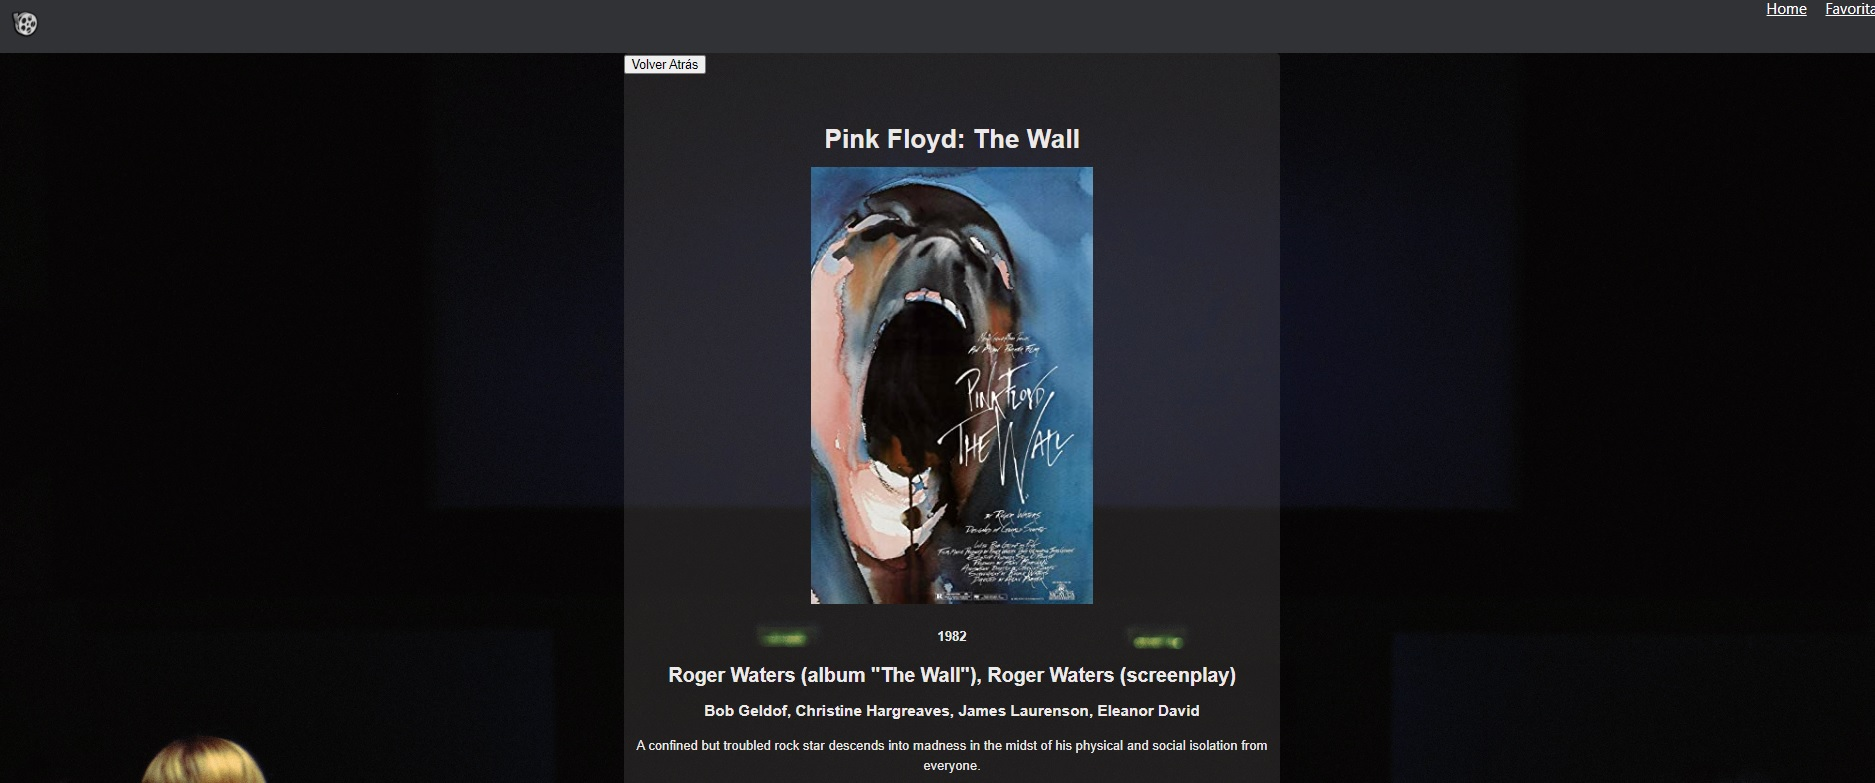
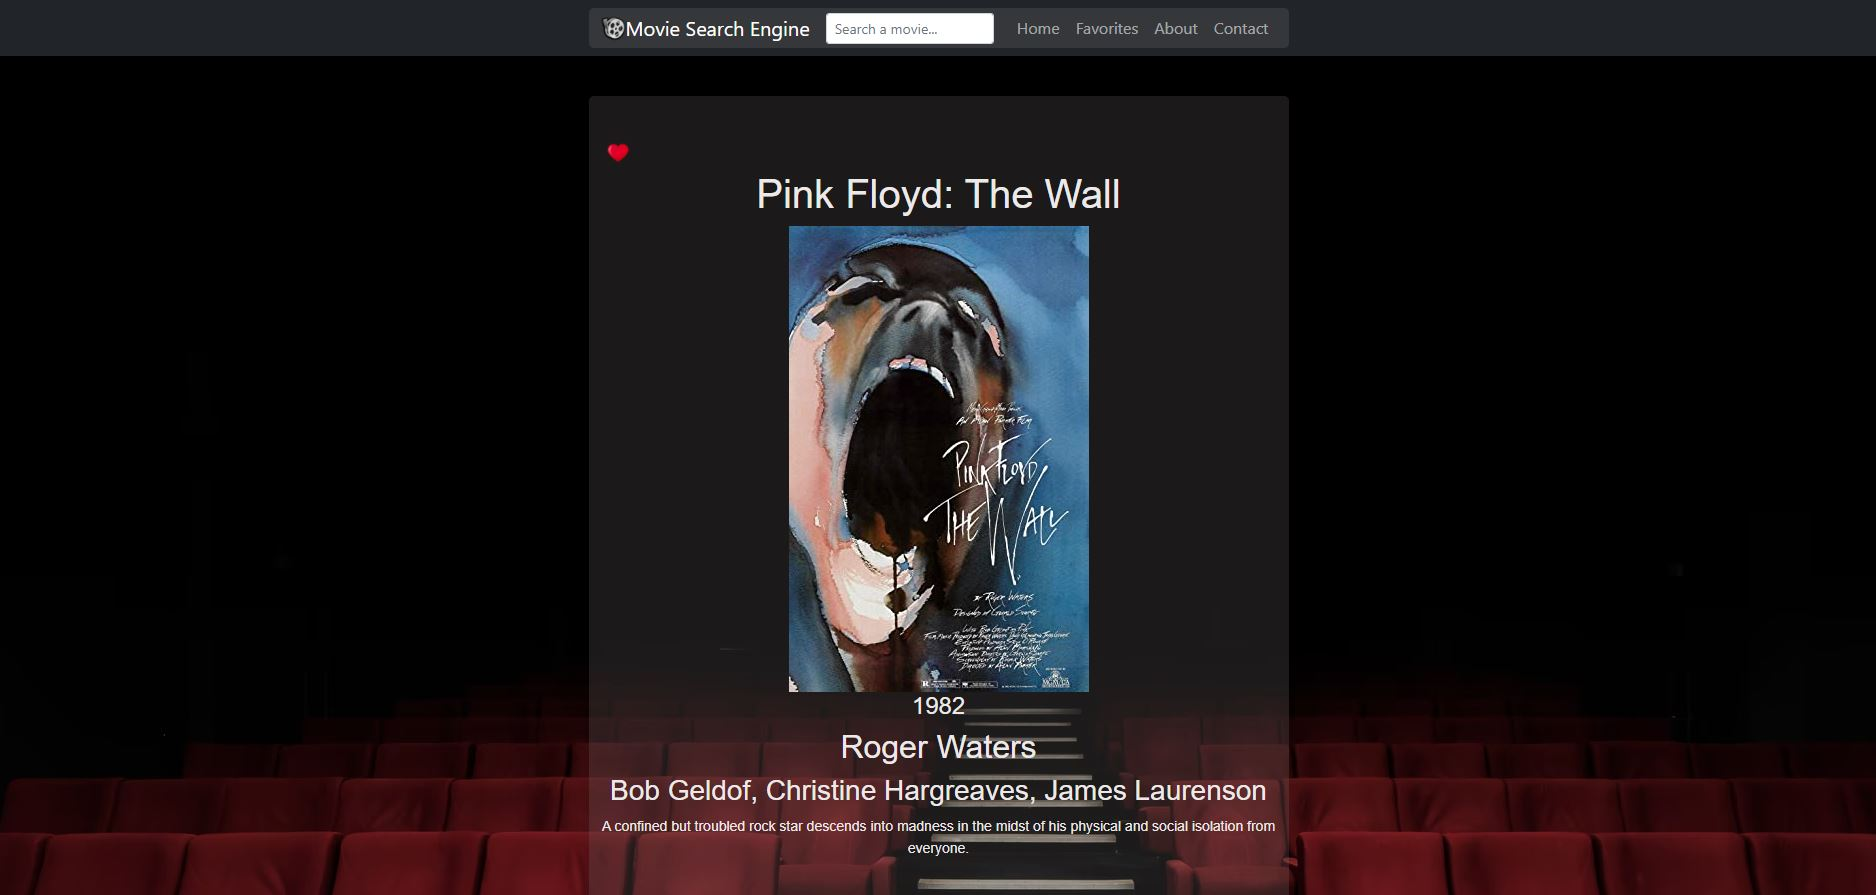
<modificated>[Readme]

diff --git a/README.md b/README.md
@@ -91,7 +91,11 @@ ___
 
 
 + HOME
-<div align="center"><img  src="./img/Captura.PNG" /> </div>
+<div align="center"><img  src="./img/Captura2.PNG" /> </div>
+
++ Favorites
+
+<div align="center"><img  src="./img/Favorites.PNG" /> </div>
 
 + Movie Detail
 
@@ -99,7 +103,14 @@ ___
 
 + Alert
 
-<div align="center"><img  src="./img/capturaAlert.png" /> </div>
+<div align="center"><img  src="./img/capturaAlert2.png" /> </div>
 
++ About
+
+<div align="center"><img  src="./img/About.PNG" /> </div>
+
++ Contact
+
+<div align="center"><img  src="./img/Contact.PNG" /> </div>
 
 
